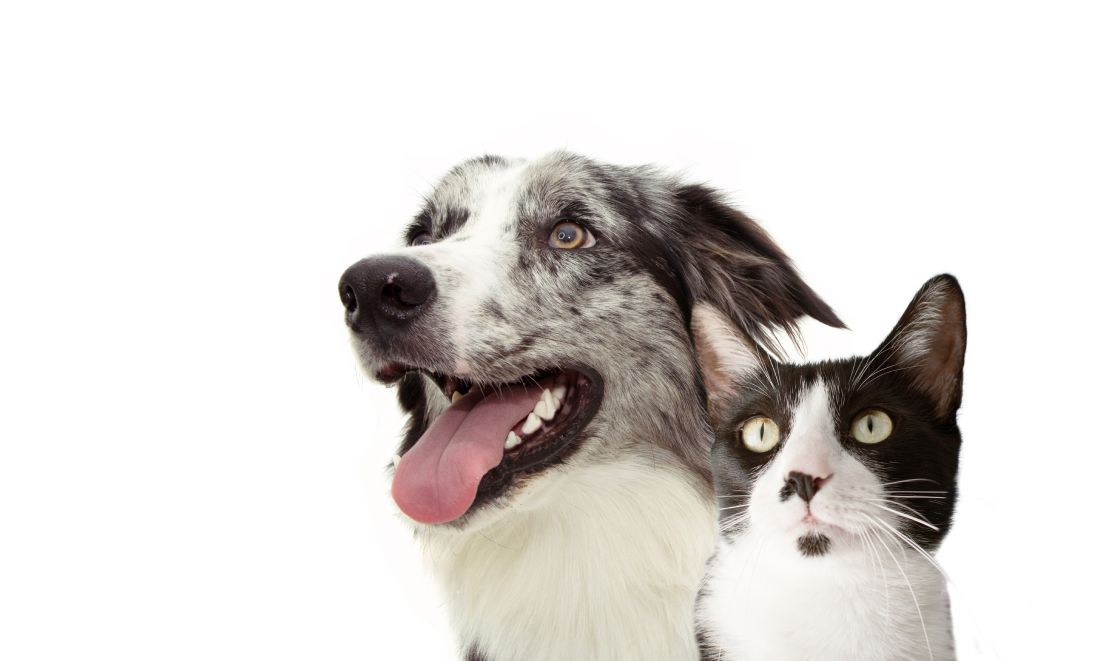
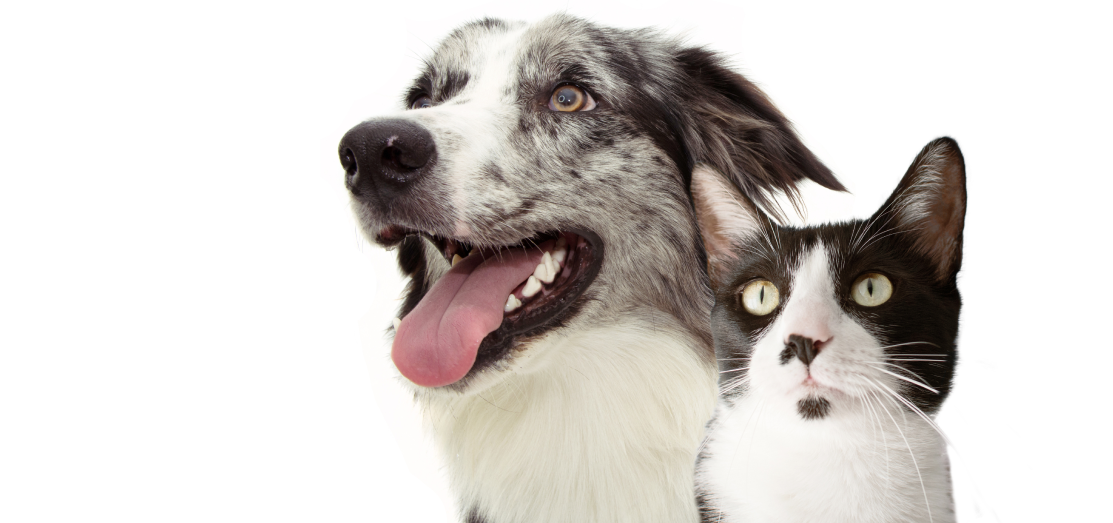
feat-main sections

Changed region(s): [[0.3055, 0.0306, 0.8859, 0.9484], [0.611, 0.826, 0.6721, 1.0]]

diff --git a/index.html b/index.html
@@ -37,7 +37,24 @@
     </nav>
     <header>
         <div class="header-banner_circle"></div>
+        <h1 class="header-banner_title"> <span> Psy i koty</span> <br>     Zaadoptuj<br> 
+            dowolne zwierzę!
+       </h1>
         <div class="header-banner_img"></div>
     </header>
+    <section class="white">
+        <div class="white-img">
+            <img src="./img/stock-photo-adorable-grey-british-shorthair-cat 1.png" alt="">
+        </div>
+        <p>Lorem ipsum dolor sit amet, consectetur adipisicing elit. Quos at doloremque, ipsa dignissimos recusandae dolores earum tempore id. Facere deserunt, culpa nobis hic harum non quam nam atque ad corrupti. Lorem ipsum dolor sit amet consectetur adipisicing elit. Iure, ipsum maxime? Dolor iure nostrum ex tempore illo architecto culpa dignissimos quo? Voluptates quod deleniti ratione adipisci eos voluptate, rem iusto? <br><br>
+        Lorem ipsum dolor sit amet consectetur adipisicing elit. Ullam omnis quas culpa maxime? Quaerat, tenetur fuga modi, adipisci reiciendis culpa eum, rem consequuntur ex qui expedita quod aspernatur architecto voluptas? </p>
+    </section>
+    <section class="white">
+        <p>Lorem ipsum dolor sit amet, consectetur adipisicing elit. Quos at doloremque, ipsa dignissimos recusandae dolores earum tempore id. Facere deserunt, culpa nobis hic harum non quam nam atque ad corrupti. Lorem ipsum dolor sit amet consectetur adipisicing elit. Iure, ipsum maxime? Dolor iure nostrum ex tempore illo architecto culpa dignissimos quo? Voluptates quod deleniti ratione adipisci eos voluptate, rem iusto? <br>
+        Lorem ipsum dolor sit amet consectetur adipisicing elit. Ullam omnis quas culpa maxime? Quaerat, tenetur fuga modi, adipisci reiciendis culpa eum, rem consequuntur ex qui expedita quod aspernatur architecto voluptas? </p>
+        <div class="white-img">
+            <img src="./img/AdobeStock_285967082 1.png" alt="">
+        </div>
+    </section>
 </body>
 </html>

diff --git a/style.css b/style.css
@@ -16,6 +16,10 @@
     padding: 0;
     box-sizing: border-box;
 }
+::-webkit-scrollbar {
+    display: none;
+  }
+
 body{
     max-width: 100vw;
     overflow-x: hidden;
@@ -94,7 +98,8 @@ nav {
 /* header */
 header {
     width: 100%;
-    height:70vh;
+    height:400px;
+    overflow:hidden;
 }
 .header-banner_img, .header-banner_circle {
     width: 100%;
@@ -111,4 +116,59 @@ header {
     position: absolute;
     background-image: url("./img/Ellipse\ 1.png");
     z-index: 1;
+}
+.header-banner_title {
+    position: absolute;
+    top:50%;
+    transform: translateY(-50%);
+    z-index: 2;
+    color: #fff;
+    font-size: 40px;
+    letter-spacing: 1.5px;
+    line-height: 56px;
+    margin-left: var(--margin);
+}
+.header-banner_title span {
+    font-weight: 300;
+}
+@media(max-width:1024px){
+    .header-banner_title {
+        margin:0;
+    }
+}
+@media(max-width:1024px) and (orientation: landscape) {
+    .header-banner_title {
+        margin-top:30px;
+    }
+}
+/* section */
+.white {
+    display: flex;
+    justify-content: space-between;
+    align-content: center;
+    margin: 0 var(--margin);
+}
+.white > * {
+    flex-basis: 50%;
+}
+.white img {
+    max-width: 40vw;
+    z-index: 2;
+}
+.white p {
+    padding: 50px 5px;
+}
+@media(max-width:1024px) {
+    .white{
+        display: flex;
+        flex-direction: column;
+        margin: 0;
+        width: 100vw;
+    } 
+    .white-img {
+        margin: 0 auto;
+    }
+    .white p {
+        padding: 0 10px;
+    }
 }
